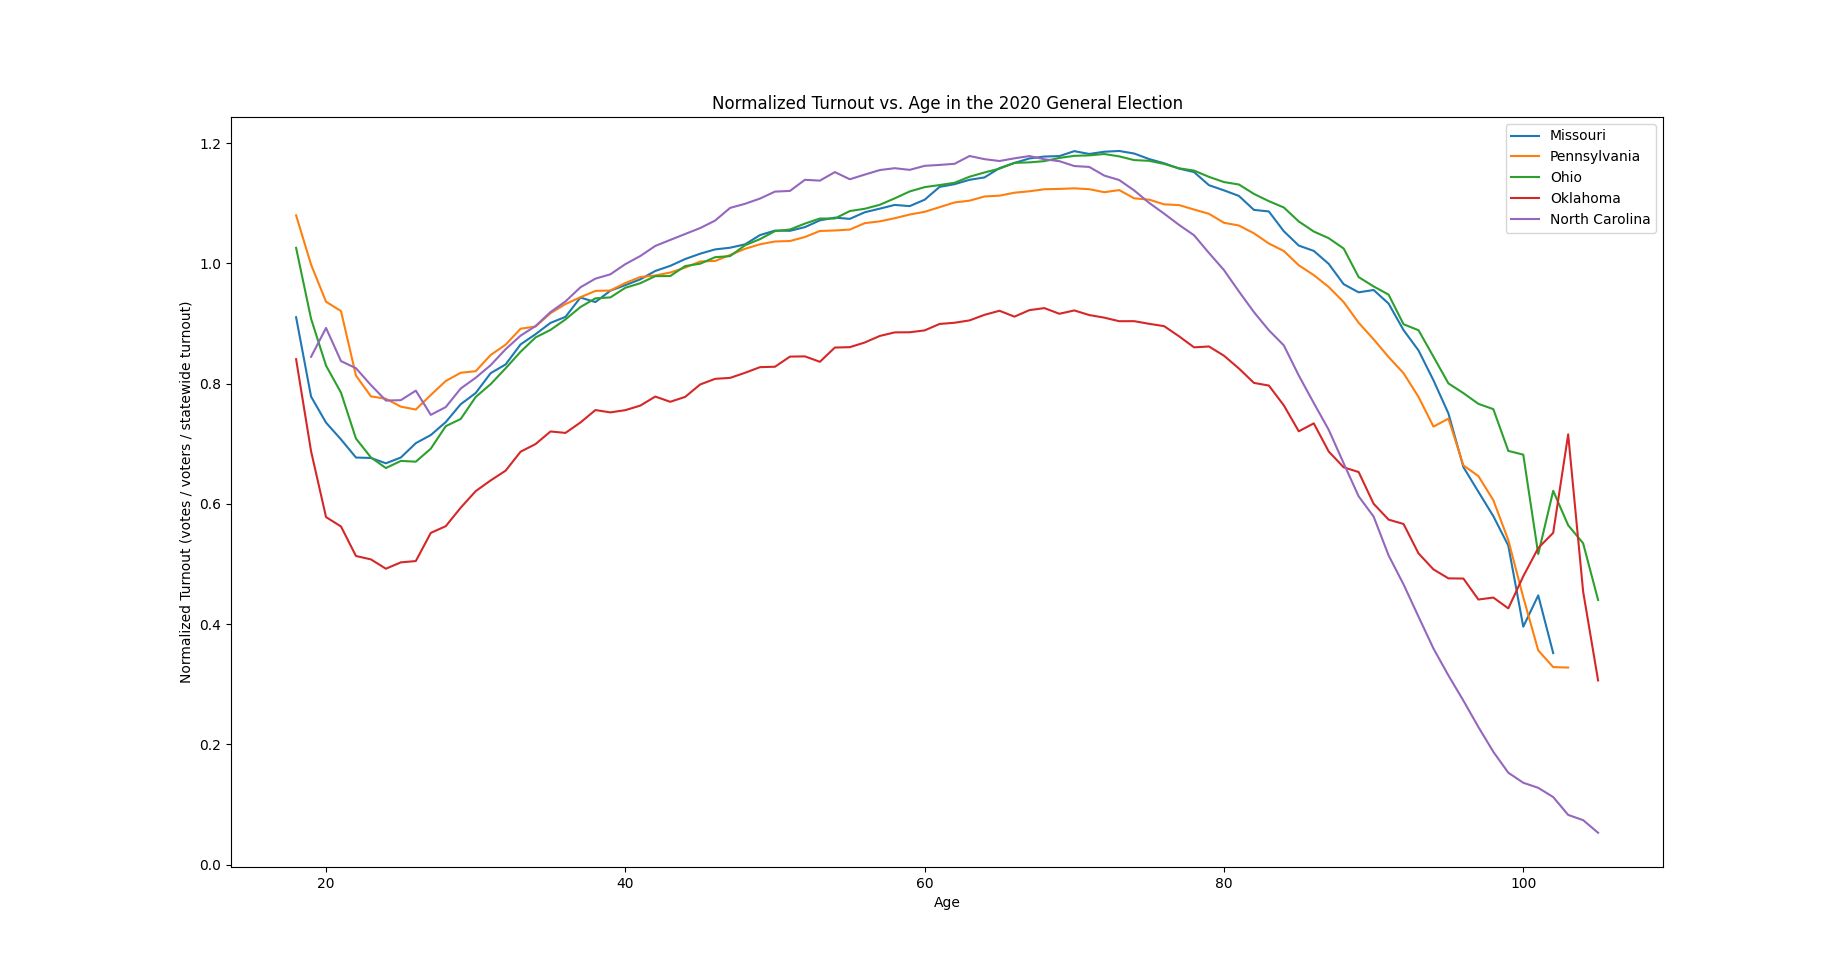
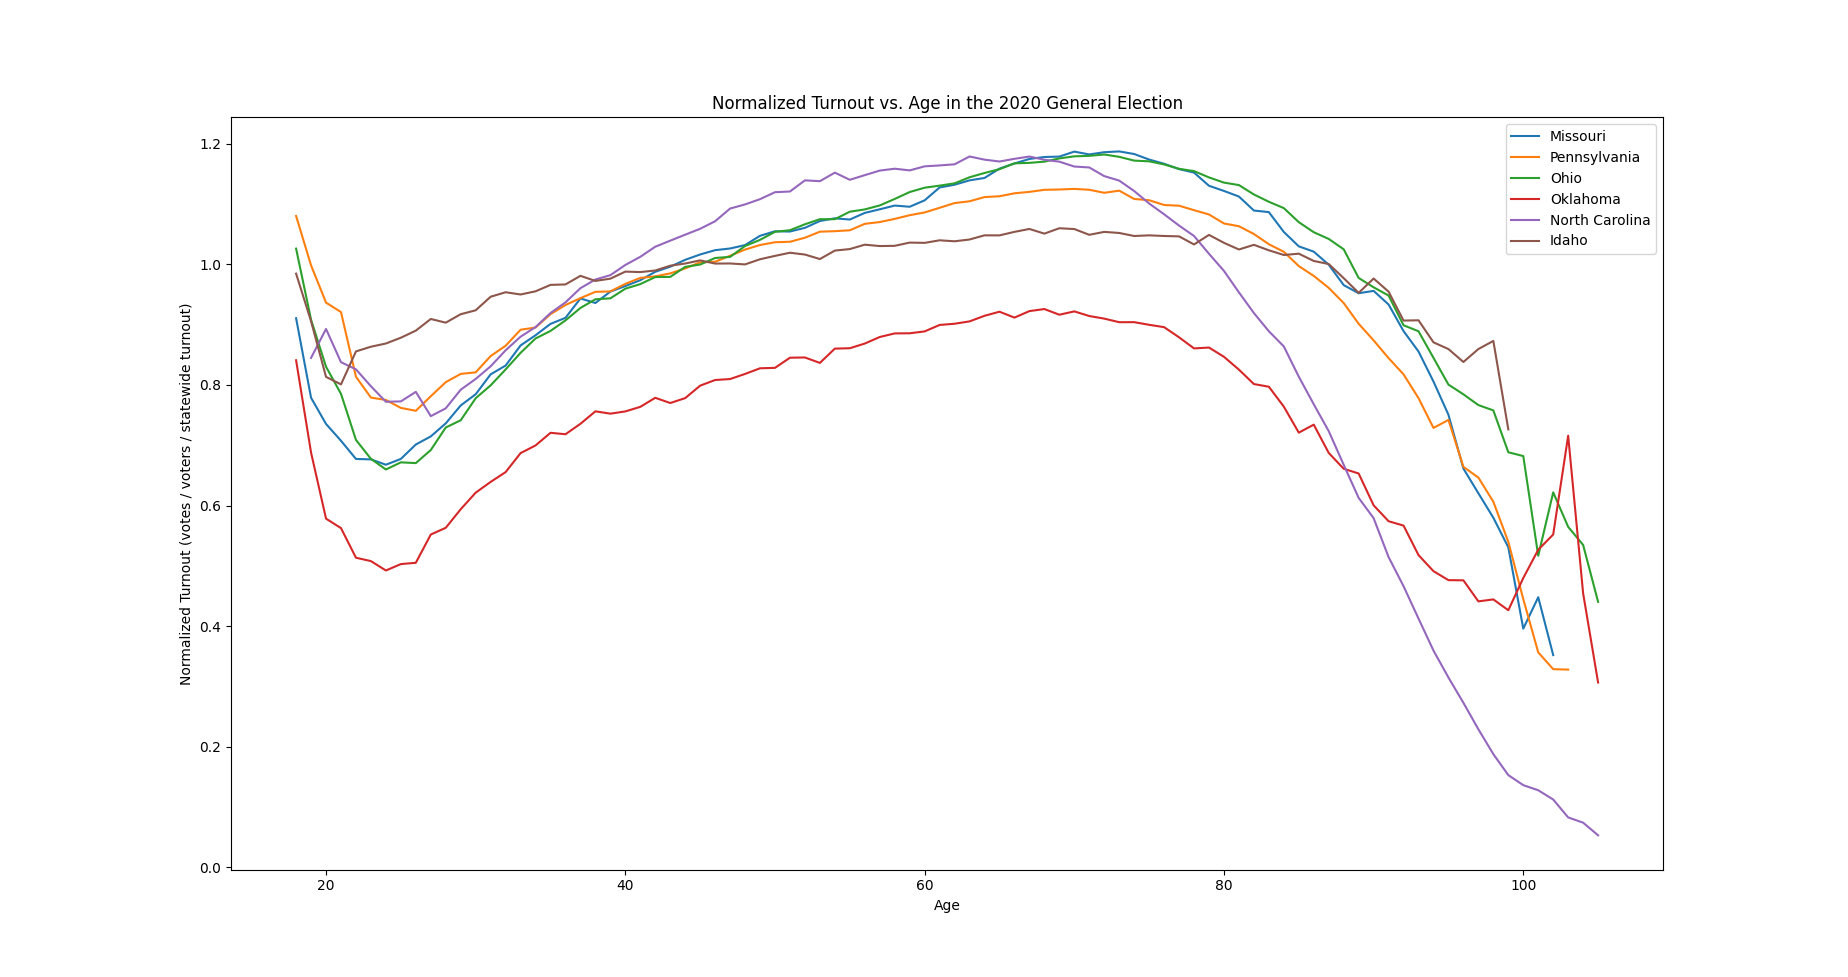
add Idaho key

diff --git a/plot.py b/plot.py
@@ -26,6 +26,7 @@ if __name__ == '__main__':
     plot_json('ohio2020.json', 'Ohio')
     plot_json('oklahoma2020.json', 'Oklahoma')
     plot_json('north-carolina-2020.json', 'North Carolina')
+    plot_json('idaho2020.json', 'Idaho')
     ax.legend()
     plt.xlabel('Age')
     plt.ylabel('Normalized Turnout (votes / voters / statewide turnout)')
